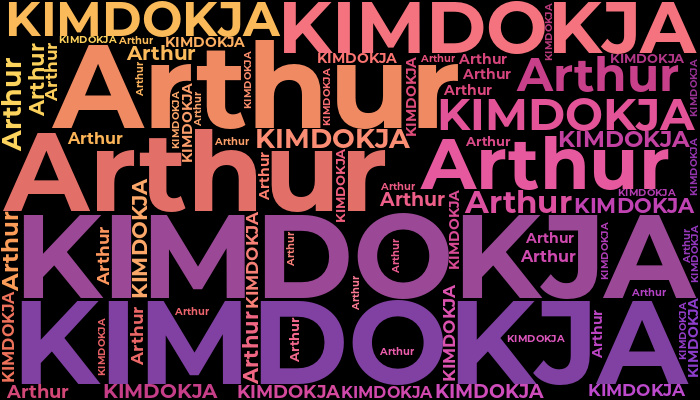
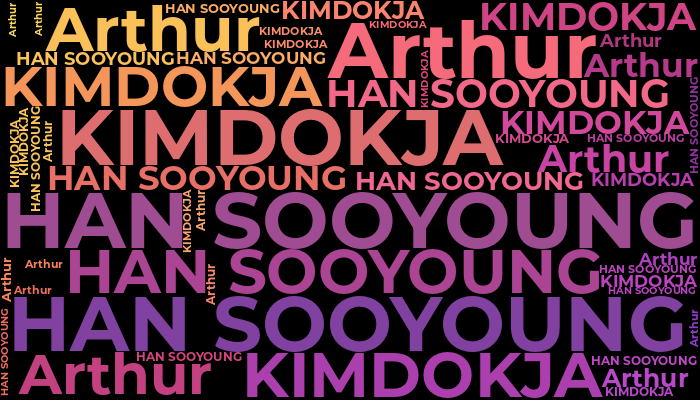
@SyedShahulAhmed added 'HAN SOOYOUNG' to the Word Cloud

diff --git a/README.md b/README.md
@@ -13,7 +13,7 @@ Join the Word Cloud Board :cloud: :pencil2:
 
 ## 📛Github Usernames📛
 
-![Word Cloud Words Badge](https://img.shields.io/badge/Words%20in%20this%20Cloud-3-informational?labelColor=003995)
+![Word Cloud Words Badge](https://img.shields.io/badge/Words%20in%20this%20Cloud-5-informational?labelColor=003995)
 ![Word Cloud Contributors Badge](https://img.shields.io/badge/Cloud%20Contributors-1-blueviolet?labelColor=25004e)
 
 <img src="https://raw.githubusercontent.com/SyedShahulAhmed/word-cloud/main/wordcloud/wordcloud.png" alt="WordCloud" width="100%">
